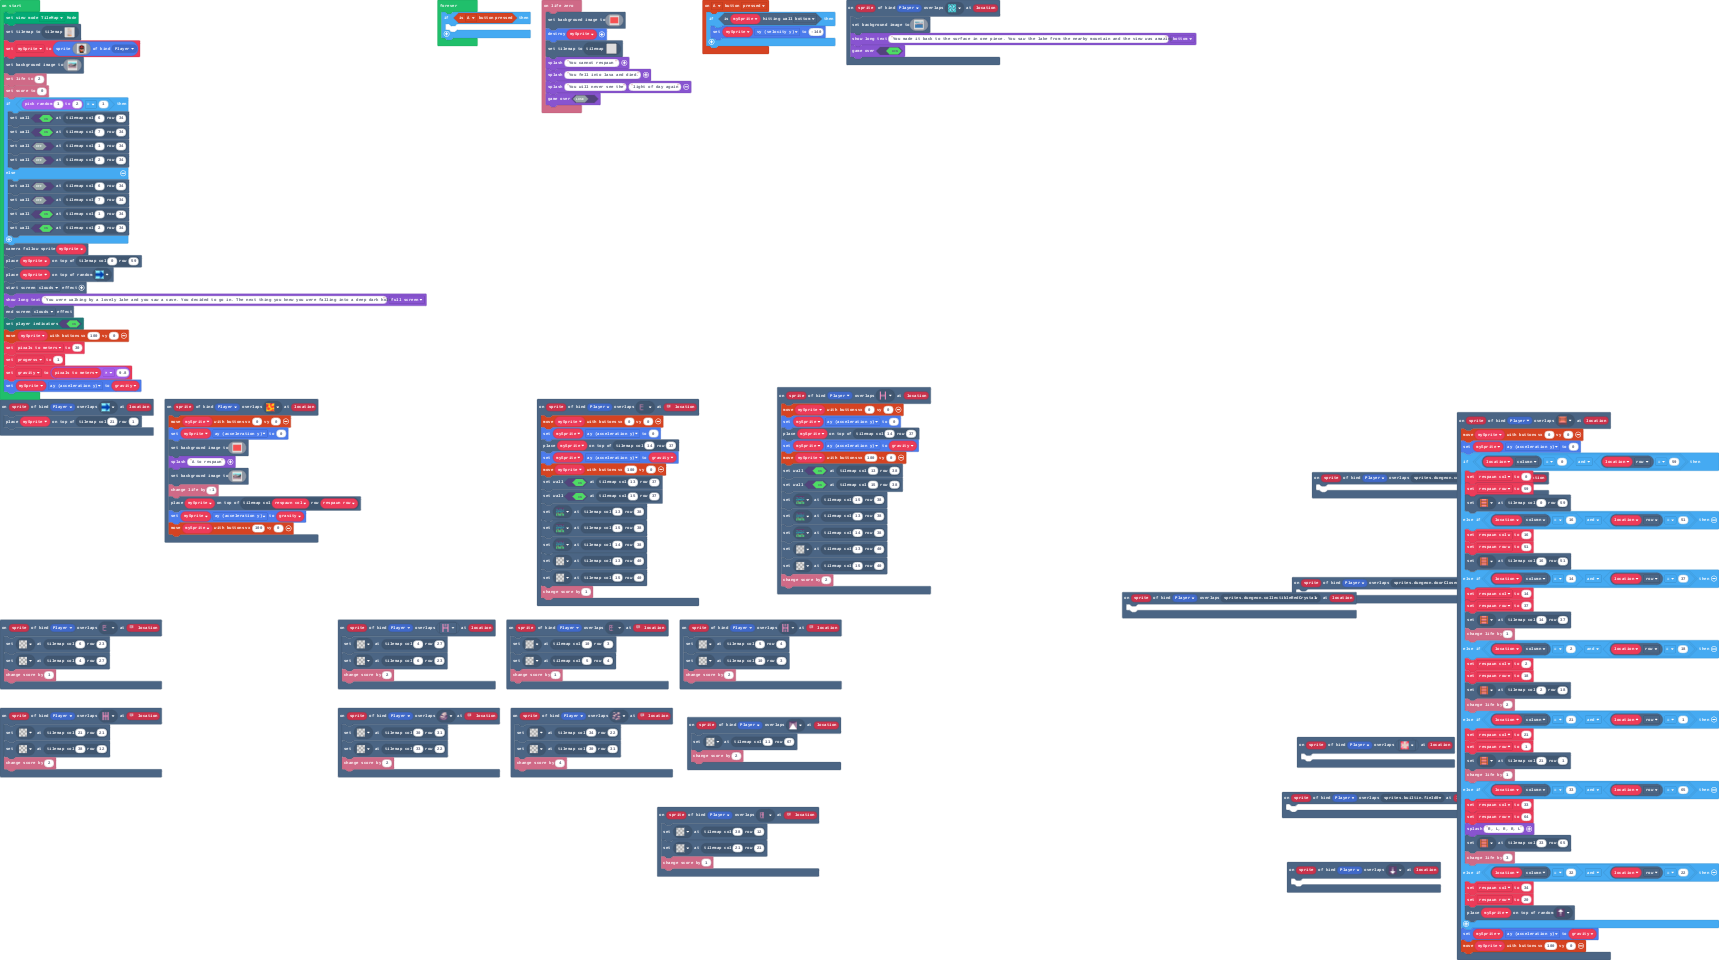
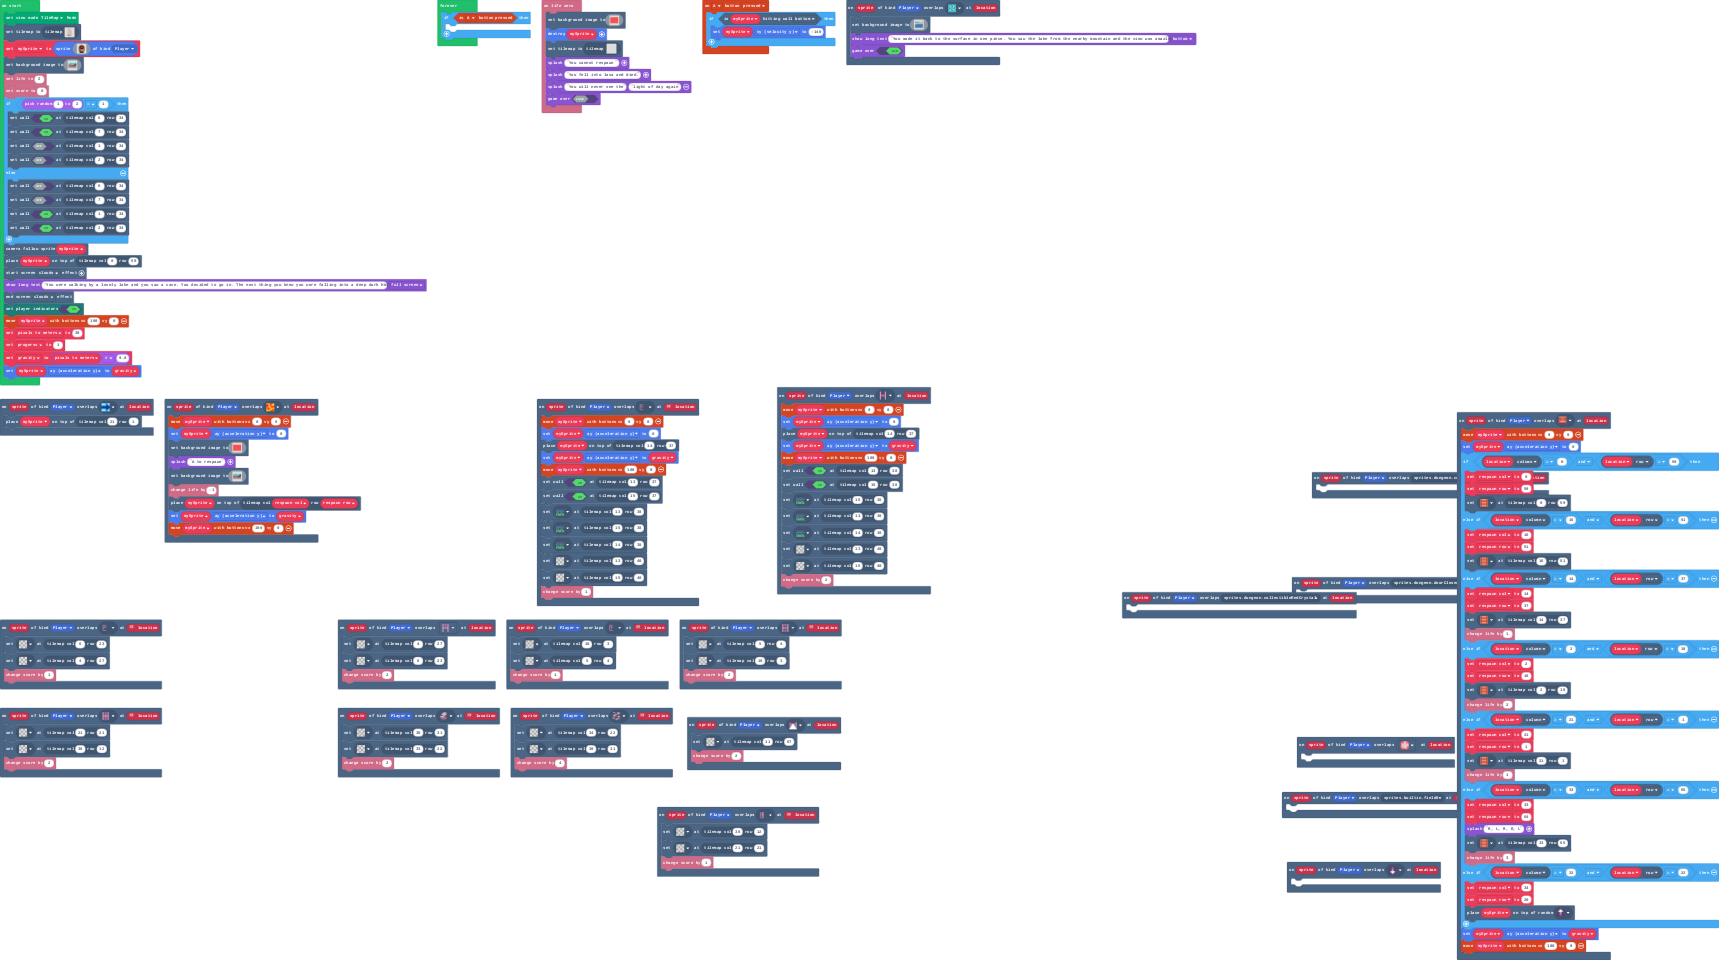
Update main.blocks, main.ts, tilemap.g.jres, tilemap.g.ts

Changed region(s): [[0.0, 0.2812, 0.2467, 0.4375]]

diff --git a/tilemap.g.ts b/tilemap.g.ts
@@ -510,6 +510,44 @@ namespace myTiles {
 . . . . . . . . . . . . . . . . 
 . . . . . . . . . . . . . . . . 
 `, [myTiles.transparency16], TileScale.Sixteen);
+            case "level22":
+            case "level22":return tiles.createTilemap(hex`1000100000000000000000000000000000000000000000000000000000000000000000000000000000000000000000000000000000000000000000000000000000000000000000000000000000000000000000000000000000000000000000000000000000000000000000000000000000000000000000000000000000000000000000000000000000000000000000000000000000000000000000000000000000000000000000000000000000000000000000000000000000000000000000000000000000000000000000000000000000000000000000000000000000000000000000000000000000000000000000000000000000000000000000000000000000000000`, img`
+. . . . . . . . . . . . . . . . 
+. . . . . . . . . . . . . . . . 
+. . . . . . . . . . . . . . . . 
+. . . . . . . . . . . . . . . . 
+. . . . . . . . . . . . . . . . 
+. . . . . . . . . . . . . . . . 
+. . . . . . . . . . . . . . . . 
+. . . . . . . . . . . . . . . . 
+. . . . . . . . . . . . . . . . 
+. . . . . . . . . . . . . . . . 
+. . . . . . . . . . . . . . . . 
+. . . . . . . . . . . . . . . . 
+. . . . . . . . . . . . . . . . 
+. . . . . . . . . . . . . . . . 
+. . . . . . . . . . . . . . . . 
+. . . . . . . . . . . . . . . . 
+`, [myTiles.transparency16], TileScale.Sixteen);
+            case "level23":
+            case "level23":return tiles.createTilemap(hex`1000100000000000000000000000000000000000000000000000000000000000000000000000000000000000000000000000000000000000000000000000000000000000000000000000000000000000000000000000000000000000000000000000000000000000000000000000000000000000000000000000000000000000000000000000000000000000000000000000000000000000000000000000000000000000000000000000000000000000000000000000000000000000000000000000000000000000000000000000000000000000000000000000000000000000000000000000000000000000000000000000000000000000000000000000000000000000`, img`
+. . . . . . . . . . . . . . . . 
+. . . . . . . . . . . . . . . . 
+. . . . . . . . . . . . . . . . 
+. . . . . . . . . . . . . . . . 
+. . . . . . . . . . . . . . . . 
+. . . . . . . . . . . . . . . . 
+. . . . . . . . . . . . . . . . 
+. . . . . . . . . . . . . . . . 
+. . . . . . . . . . . . . . . . 
+. . . . . . . . . . . . . . . . 
+. . . . . . . . . . . . . . . . 
+. . . . . . . . . . . . . . . . 
+. . . . . . . . . . . . . . . . 
+. . . . . . . . . . . . . . . . 
+. . . . . . . . . . . . . . . . 
+. . . . . . . . . . . . . . . . 
+`, [myTiles.transparency16], TileScale.Sixteen);
         }
         return null;
     })

diff --git a/main.ts b/main.ts
@@ -794,7 +794,6 @@ if (randint(1, 2) == 1) {
 }
 scene.cameraFollowSprite(mySprite)
 tiles.placeOnTile(mySprite, tiles.getTileLocation(0, 59))
-tiles.placeOnRandomTile(mySprite, assets.tile`myTile18`)
 effects.clouds.startScreenEffect()
 game.showLongText("You were walking by a lovely lake and you saw a cave. You decided to go in. The next thing you knew you were falling into a deep dark hole  ", DialogLayout.Full)
 effects.clouds.endScreenEffect()
